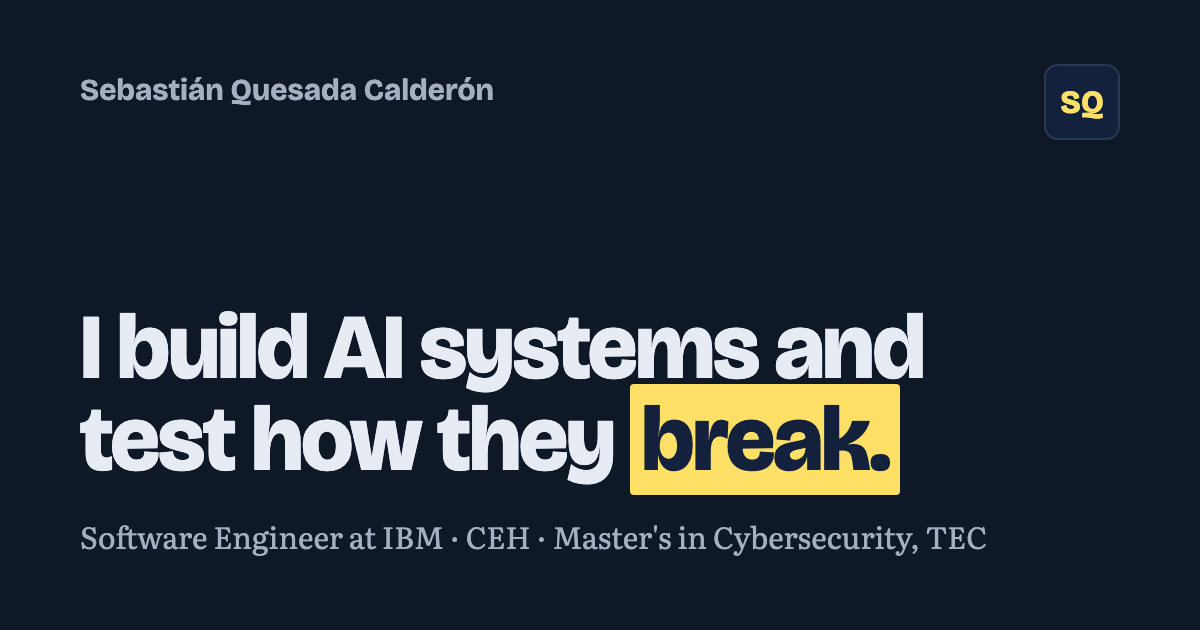
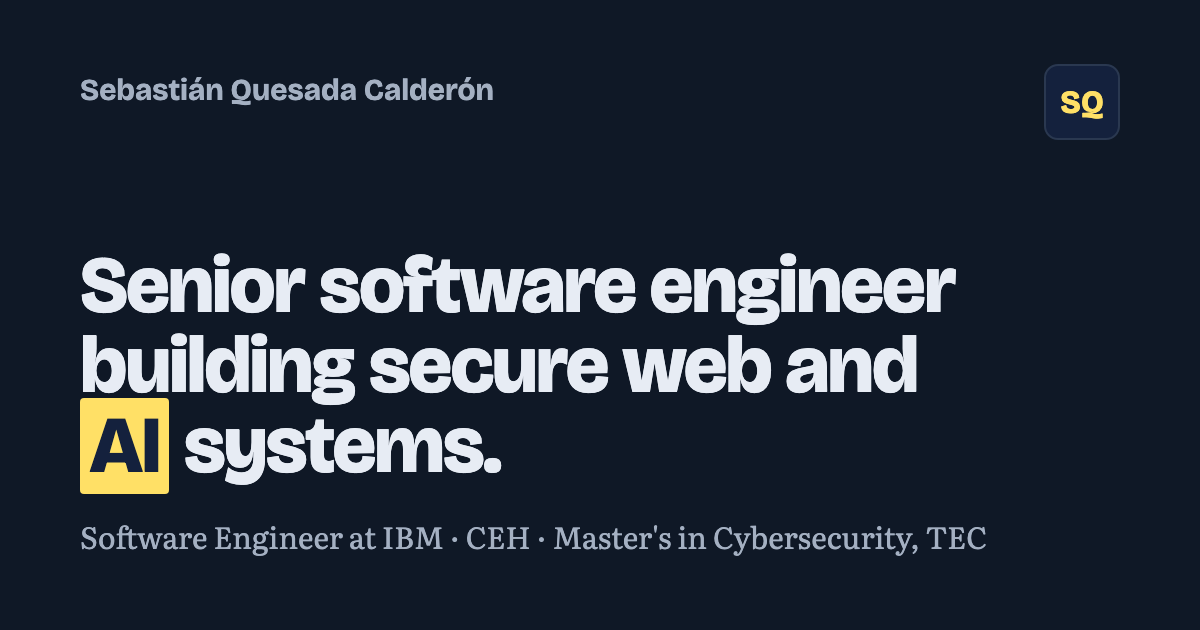
Reposition hero headline around senior software engineering

Changed region(s): [[0.0617, 0.3921, 0.8017, 0.7841]]

diff --git a/index.html b/index.html
@@ -3,12 +3,12 @@
 <head>
 <meta charset="utf-8">
 <meta name="viewport" content="width=device-width, initial-scale=1">
-<title>Sebastián Quesada Calderón | AI Engineering and Security</title>
+<title>Sebastián Quesada Calderón | Senior Software Engineer</title>
 <meta name="description" content="Software engineer at IBM building web platforms for 6+ years with React, Node.js, and TypeScript, now moving toward AI and offensive security.">
 <meta name="color-scheme" content="light dark">
 <meta property="og:type" content="website">
-<meta property="og:title" content="Sebastián Quesada Calderón | AI Engineering and Security">
-<meta property="og:description" content="I build AI systems and test how they break. Software engineer at IBM, building web platforms for 6+ years, now moving toward AI and offensive security.">
+<meta property="og:title" content="Sebastián Quesada Calderón | Senior Software Engineer">
+<meta property="og:description" content="Senior software engineer at IBM. Building web platforms for 6+ years, now moving toward AI and offensive security.">
 <meta property="og:url" content="https://portfoliosebastian.vercel.app/">
 <meta property="og:image" content="https://portfoliosebastian.vercel.app/og.png">
 <meta property="og:image:width" content="1200">
@@ -121,7 +121,7 @@
     font-size: clamp(2.6rem, 7.2vw, 5rem);
     line-height: 1.02;
     letter-spacing: -0.025em;
-    max-width: 15ch;
+    max-width: 18ch;
     margin-bottom: 1.5rem;
   }
   .lede { max-width: 40rem; font-size: 1.1875rem; color: var(--ink); }
@@ -272,7 +272,7 @@
 <main id="main">
   <section class="hero" aria-labelledby="hero-title">
     <div class="wrap">
-      <h1 id="hero-title">I build AI systems and test how they break.</h1>
+      <h1 id="hero-title">Senior software engineer building secure web and AI systems.</h1>
       <p class="lede">I'm a Costa Rican software engineer at IBM. I've been shipping React, React Native, and Node.js products for US and international companies since 2020, and I'm now moving into AI and offensive security.</p>
       <ul class="glance" aria-label="At a glance">
         <li>6+ years building web platforms</li>
